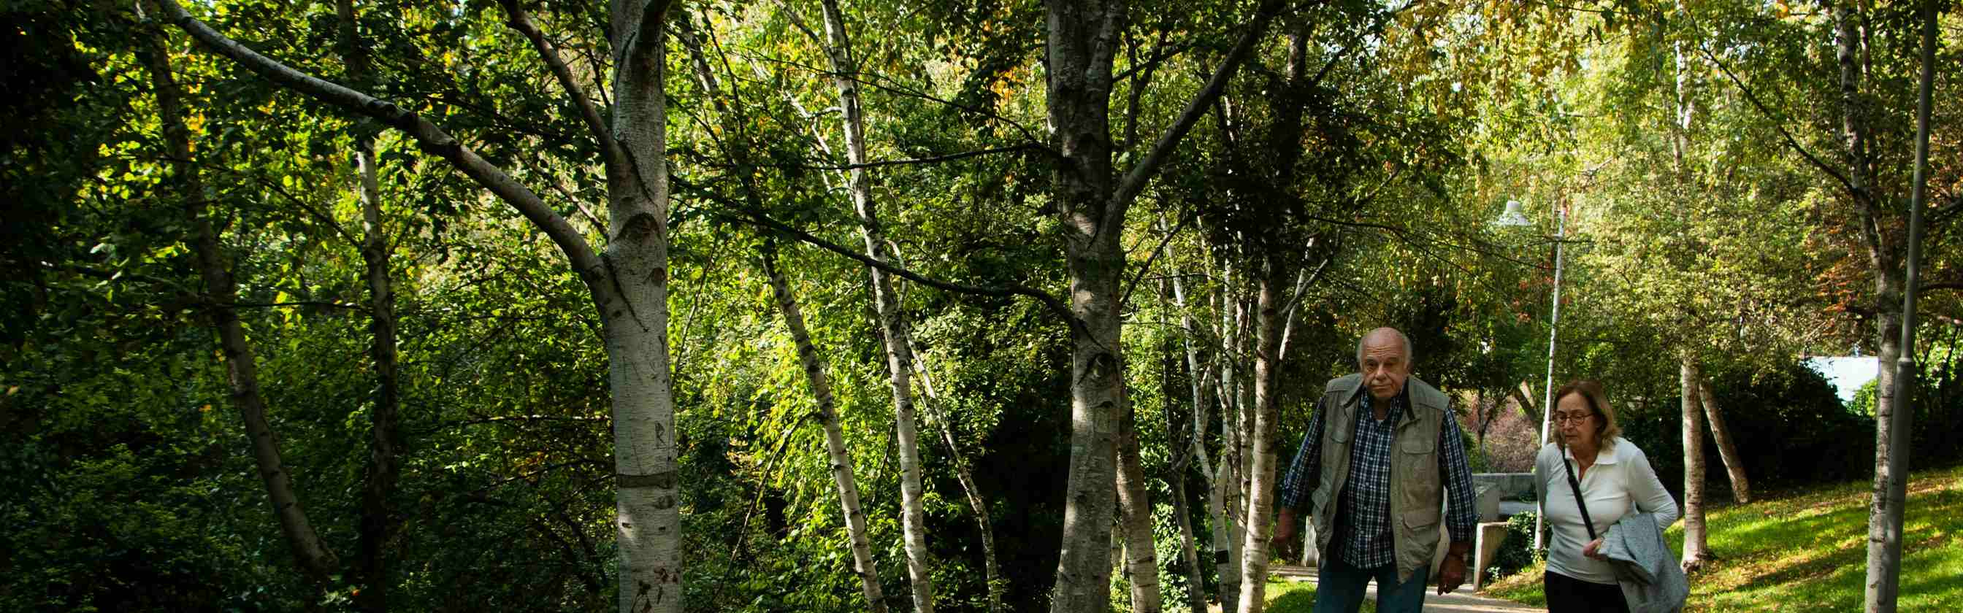
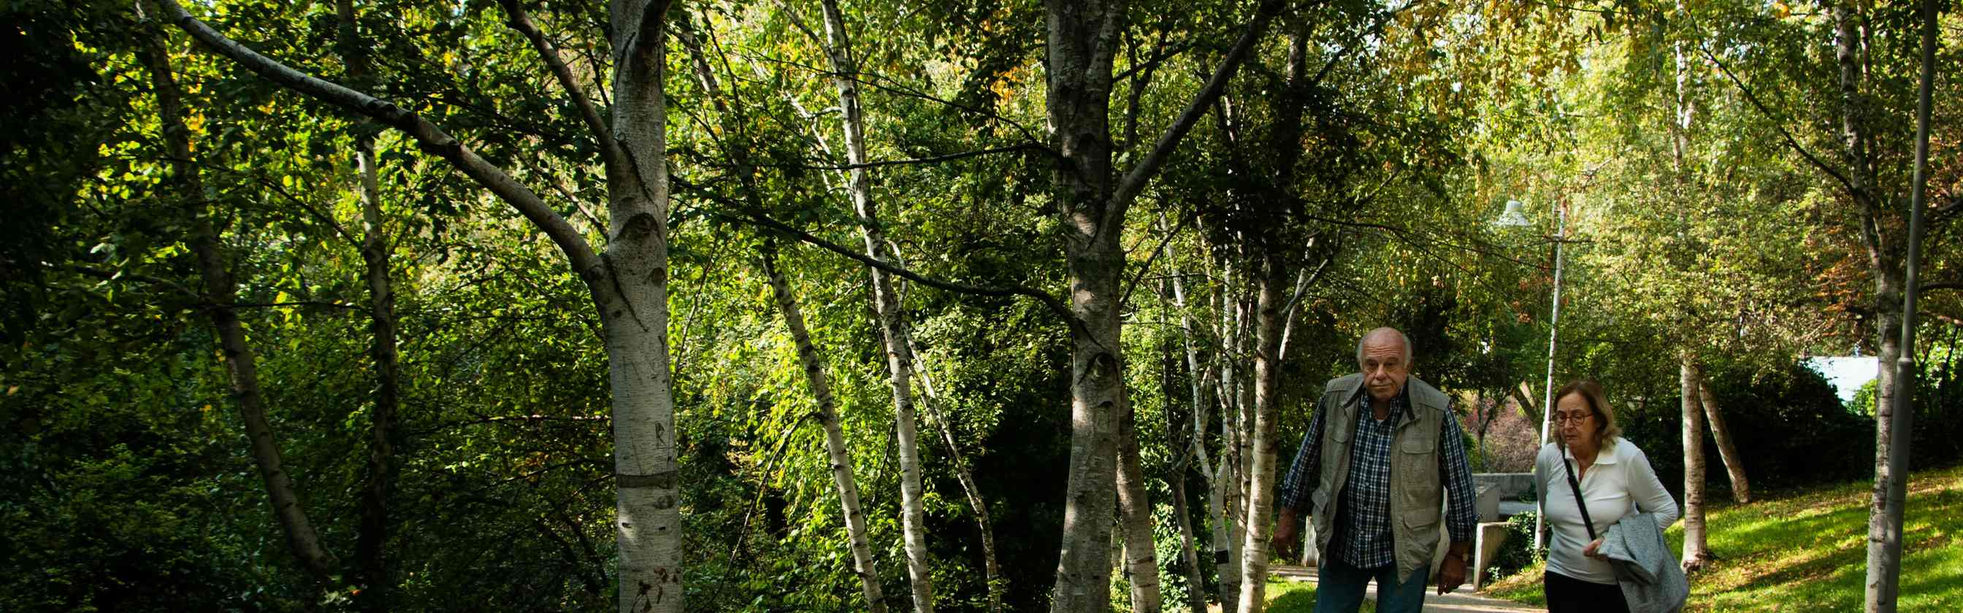
ci: 三条自足门禁入 CI（motion / lang-purity / assets）+ HIR 宽图重编
- deploy.yml 新增三步，顺序不改既有约束（copy-wiring 仍在 build 后）：
  verify-assets.py（最便宜的静态门禁，紧跟 verify-tokens）→ verify-motion.mjs
  （读 src/styles + docs/BLUEPRINT.md，无需构建）→ verify-lang-purity.mjs（自建
  两份 SSR 产物，最慢，排最后）。verify-assets.py 的非标准库依赖 Pillow 用一行
  守卫安装（`import PIL` 成功即不装；ubuntu 镜像 /etc/pip.conf 已开
  break-system-packages）。旧注释「slowest of the three, hence last」随新末位改回。
- hir-fig-2688 一对重编：仍 2688×840（= 1344 CSS ×@2x，文件名/接线宽度不变），
  jpg q23→q32、webp q23→q36；verify-assets.py 加全幅宽白名单（hir-fig-2688 +
  photoband-2880 单文件上限 320 KB，其余图位仍 250 KB）+ 白名单名必须在 DERIVED
  中的自检，MANIFEST 记新参数与新 note 字段。
- GATES.md 登记三条门禁（判据/条数/CI 与否），token 计数 156→160（实际 83+77）；
  README 的 CI 命令块、顺序说明、部署链、目录树、token 分组条数同步。

diff --git a/tools/verify-assets.py b/tools/verify-assets.py
@@ -34,6 +34,11 @@ DERIVED = {
     "photoband-2880": ("FvW5q", 2880, 1120),
 }
 DERIVED_MAX_BYTES = 250 * 1024
+# 全幅宽图（通栏、无左右留白，像素最密）单文件上限放宽到 320 KB，**只对下列白名单**生效；
+# 其余图位一律仍判 250 KB。hir-fig-2688 受限旧值只能压到 q23（画质偏软），故按此上限
+# 重编为 jpg q32 / webp q36；photoband-2880（另一张全幅宽图）同样上限，现文件远低于此值。
+FULL_BLEED_MAX_BYTES = 320 * 1024
+FULL_BLEED = {"hir-fig-2688", "photoband-2880"}
 BLANK_STDDEV_SUM = 5  # RGB 三通道标准差之和 <= 此值即为空白/占位图
 SOURCE_ORIGINALS = {"image1.jpeg", "image2.jpeg", "image3.jpeg"}
 NON_DERIVED = {"hir-essay.pdf"}  # 原样搬运的附件（非派生位图），不参与位图清单：无像素尺寸，且由 ScholarlyHir 直接 href 使用
@@ -125,7 +130,10 @@ def main():
         if e["w"] > s["w"] or e["h"] > s["h"]:
             errs.append(f"{key}: 放大违约 {e['w']}x{e['h']} > src {s['w']}x{s['h']}")
 
-    # ⑧ 图位派生图：存在、像素尺寸精确匹配、单文件 <=250KB、webp/jpg 成对、非空白
+    # ⑧ 图位派生图：存在、像素尺寸精确匹配、单文件 <=上限、webp/jpg 成对、非空白
+    if not FULL_BLEED <= set(DERIVED):
+        print(f"FAIL 全幅宽白名单含未知图位: {sorted(FULL_BLEED - set(DERIVED))}")
+        return 1
     derived_before = len(errs)
     for base, (node, dw, dh) in sorted(DERIVED.items()):
         for ext in ("webp", "jpg"):
@@ -138,8 +146,12 @@ def main():
                 errs.append(f"{name}: 未登记进清单（nodeId {node}）")
             elif entries[name].get("nodeId") != node:
                 errs.append(f"{name}: 清单 nodeId={entries[name].get('nodeId')!r} != {node!r}")
-            if path.stat().st_size > DERIVED_MAX_BYTES:
-                errs.append(f"{name}: {path.stat().st_size} 字节 > 250 KB 上限")
+            cap = FULL_BLEED_MAX_BYTES if base in FULL_BLEED else DERIVED_MAX_BYTES
+            if path.stat().st_size > cap:
+                errs.append(
+                    f"{name}: {path.stat().st_size} 字节 > {cap // 1024} KB 上限"
+                    f"（{'全幅宽白名单' if base in FULL_BLEED else '默认'}）"
+                )
             try:
                 with Image.open(path) as im:
                     got, spread = im.size, sum(ImageStat.Stat(im.convert("RGB")).stddev)
@@ -189,7 +201,8 @@ def main():
     if derived_failed:
         print(f"新增 {len(DERIVED)} 组图位：{derived_failed} 项不合格")
     else:
-        print(f"新增 {len(DERIVED)} 组图位通过：存在 / 尺寸精确匹配 / 单文件 <=250KB / webp+jpg 成对 / 非空白")
+        print(f"新增 {len(DERIVED)} 组图位通过：存在 / 尺寸精确匹配 / 单文件 <=250KB"
+              f"（全幅宽 {sorted(FULL_BLEED)} <=320KB）/ webp+jpg 成对 / 非空白")
     if errs:
         print(f"FAIL 共 {len(errs)} 条")
         return 1

diff --git a/docs/GATES.md b/docs/GATES.md
@@ -13,11 +13,14 @@ P14 轮只改两条 fidelity 的**输入解析**（`nav-hero-photoband` / `elder
 
 T3b 轮落地**默认英文 + 单语纯度**（裁决：`.agents/briefs/lang-purity-ruling.md`；BLUEPRINT §6.4 已就地改写并标注旧模型作废）：`DEFAULT_LANG="en"`、`index.html` 的 `<html lang="en">` 与英文 head；字典两侧各持本语言文本（134 → 140 键，新增 6 个图位 alt 键）；`fallback`/`pending` 字段废弃。新增 `tools/verify-lang-purity.mjs`，并把两条既有判据**同强度换向**：`verify-ssr-dom` 的「`lang` 双值」→「单语言（无 CJK、`lang` 只有 `en`）+ h2 文本逐字取 `copy-en.json`」，`verify-lang-toggle` 的默认模式 zh-Hans → en（13 对键的「自身一侧在场 + 另一语言文本不在场」）。`docs/verify-copy.mjs` 的溯源断言按「材料侧逐字 / 译文侧同槽位且互异」重写，断言条数 214 不变（126 原文逐字 + 74 译文侧 + 14 材料混排改写）。本轮实测：四条 fidelity 因 `ui.pen` 与冻版哈希不符（`41dd7140…`/140380 B vs `8816b923…`/137536 B）直接拒绝比对，rc=1，与本轮改动无关（本轮未动 `ui.pen`、`src/styles/**`、`src/sections/**`）。
 
+P15 轮把三条自足门禁接进 CI（`tools/verify-motion.mjs`、`tools/verify-lang-purity.mjs`、`tools/verify-assets.py`），
+只动 `.github/workflows/deploy.yml`、本文件与 `README.md` 的登记；另一处改动是 `hir-fig-2688` 一对派生图按全幅宽白名单上限（≤320 KB）以更高画质重编，`tools/verify-assets.py` 因此多一条白名单判据。判据强度未放宽：白名单只增两条分支，其余图位仍判 250 KB。
+
 ## 1 总表
 
 | 门禁 | 能证什么 | 不能证什么 | 跑在哪 |
 |---|---|---|---|
-| `tools/verify-tokens.mjs` | `src/styles/tokens.css` 156 个 token 与设计简报 §9 + 实现补充表**逐字节同值** | 谁消费了哪个 token、某节档位取值、视觉结果 | CI |
+| `tools/verify-tokens.mjs` | `src/styles/tokens.css` 160 个 token 与设计简报 §9 + 实现补充表**逐字节同值** | 谁消费了哪个 token、某节档位取值、视觉结果 | CI |
 | `tools/verify-deploy.mjs` | Pages 发布链静态约定 57 项（vite 相对 base、npm scripts、README 提及、workflow 步骤依赖顺序） | 运行结果、UI | CI |
 | `npm run build`（`tsc --noEmit` + vite） | 类型可编译、可打包 | 视觉、设计值、布局 | CI |
 | `tools/verify-copy-wiring.mjs` | 产物中的文案全部来自冻版字典（含未引用键下限） | 排版、位置、设计值 | CI（须在 build 后） |
@@ -25,16 +28,19 @@ T3b 轮落地**默认英文 + 单语纯度**（裁决：`.agents/briefs/lang-pur
 | `tools/verify-responsive.mjs` | BLUEPRINT §3.1/§3.2 每个档位值由**该 token 自身的载体选择器**在对应 `@media (max-width: Npx)` 块内以 `var(--name)`/`var(--name-tNNNN)` 承接，属性属族且解析值含表值；§3.3 的 `` `--token` `` 锚同此 | §3.3 非 token 数字（色块/方图/`h`/gap/padding）不绑选择器（§2 B-残留）；token 表值本身由 verify-tokens 管，本门禁不比对设计稿 | CI |
 | `tools/verify-ssr-dom.mjs` | 学术成果节 SSR 后的 DOM 事实：标题层级、9 个揭晓区初始折叠且 panel id 可寻、图片 lazy、单语言（无 CJK、`lang` 只出现 `["en"]`） | 只覆盖 scholarly 节；视觉 | CI |
 | `docs/verify-copy.mjs` | 字典自身规则：键集合一致（当前 140 键）、字段类型、材料侧 `text` 逐字溯源、译文侧「同一 `src` 槽位 + 原文侧逐字 + 两侧互异」、chrome/src 归属、※ 禁止 | 渲染、版式；译文**语义**正确性（机器无判据，由 `translation-policy.md` §验收 2 人工抽检） | 本地 |
-| `tools/verify-lang-purity.mjs` | 两模式 SSR 产物纯度：EN 零 CJK（可见文本 + `title`/`alt`/`aria-label`/`placeholder`/`content` + 静态 head）、ZH 拉丁 token 逐 token 命中封闭白名单且整 token 元素带 `lang="en"` | `<noscript>`（JS-off 兜底，双语）与运行期由 JS 拼接的串（本页无）不在扫描范围；白名单本身不判语义 | 本地（**未接入 CI**） |
+| `tools/verify-lang-purity.mjs` | 两模式 SSR 产物纯度 3 类：EN 零 CJK（可见文本 + `title`/`alt`/`aria-label`/`placeholder`/`content` + 静态 head）、ZH 拉丁 token 逐 token 命中封闭白名单且整 token 元素带 `lang="en"`、两模式皆走同一渲染路径（`DEFAULT_LANG` 改写不生效即rc≠0） | `<noscript>`（JS-off 兜底，双语）与运行期由 JS 拼接的串（本页无）不在扫描范围；白名单本身不判语义 | CI |
 | `tools/verify-lang-toggle.mjs` | 语言切换逐条键（默认 `en`）、不重载、同值点击持久化 | 视觉 | 本地 |
 | `tools/verify-render.mjs` | 真实浏览器渲染度量（驱动器无本机浏览器，走宿主 Chrome CDP `127.0.0.1:9222`） | CI 无此环境 | 本地 |
-| `tools/verify-assets.py` | 资源体积与完整性 | 版式、设计值 | 本地 |
+| `tools/verify-assets.py` | `MANIFEST.json` 38 条目的字段/存在/字节/尺寸/格式/禁放大、清单集合==磁盘集合、总字节须少于源图、10 组图位派生图（存在 / 像素尺寸精确匹配 / webp+jpg 成对 / 非空白 / 单文件 ≤250 KB，全幅宽白名单 `hir-fig-2688`+`photoband-2880` ≤320 KB） | 版式、设计值、画面内容是否就是设计稿那张图（只判非空白） | CI（`python3` + Pillow，见 §5） |
+| `tools/verify-motion.mjs` | 动效层 7 类：12 个冻结 motion token 逐字同值且被样式消费、无作废旧名（`--dur-fast` 等）、每个动效钩子（7 个 animated 加全部 `motion-*`/`reveal*` 选择器）都有 `prefers-reduced-motion: reduce` 终态、揭晓契约（`0fr→1fr`、`overflow-anchor: none`、`aria-expanded`/`aria-controls`/`aria-labelledby`/`data-state`、无内联 style）、11 节均有入场钩子、禁用项（过冲缓动、动画 `top/left/height/margin`、`transition: all`、scroll 监听）、时长预算（单条 ≤800ms、首屏链 ≤800ms）、BLUEPRINT §2.11 同名同值 | 实际观感、真机帧率、`reduced-motion` 下的渲染结果（不跑浏览器）；`motion-spec-frozen.md` 自身的措辞（仓外文件，只比三处同源物） | CI（自带 `--self-test` 自毁副本反例） |
 | `tools/fidelity-scholarly.mjs`、`tools/fidelity-nav-hero-photoband.mjs`、`tools/fidelity-elder-music-sport.mjs`、`tools/fidelity-index-method-values-footer.mjs` | 各节 ui.pen 子树的设计数值/色彩/字族在对应节样式里有承接声明；索引四行三色、Values 四卡三属性另有逐节点配对 | 除已配对项外按**节级池**匹配：节点级错值可被同节别的节点顶掉（§2 A2/A3/A4）；另三条本轮**未审**（§2 C） | 本地 |
 | `tools/verify-fonts.mjs` | 抽样 6 个节点的**实际选中**字体族（CDP `CSS.getPlatformFontsForNode`）：4 个声明 Inter / IBM Plex Mono 的节点确由该族绘制且 `isCustomFont=true`（自托管 woff2 已加载），2 个中文节点落在含 CJK 的系统字体上且 `isCustomFont=false` | 未抽样节点、字形覆盖度（latin 子集外的缺字回退）、字重细节、真机与其它浏览器 | 本地（需宿主 CDP `127.0.0.1:9222`，可 `CDP=` 覆盖）；端点不可达以 rc=2 单行 `UNAVAILABLE:` 退出，不进 CI |
 
-上表 7 条 CI 门禁 = `.github/workflows/deploy.yml` 的全部步骤（verify-tokens → verify-deploy →
-build → verify-copy-wiring → verify-head → verify-responsive → verify-ssr-dom）。
-四条 fidelity、`docs/verify-copy.mjs`、lang-toggle、lang-purity、render、fonts、assets **未接入 CI**，其假绿 CI 不会拦下（lang-purity 未加进 `.github/workflows/deploy.yml`：本轮可改路径不含 `.github/**`）。
+上表 10 条 CI 门禁 = `.github/workflows/deploy.yml` 的全部步骤（verify-tokens → verify-assets → verify-deploy → verify-motion →
+build → verify-copy-wiring → verify-head → verify-responsive → verify-ssr-dom → verify-lang-purity）。
+四条 fidelity、`docs/verify-copy.mjs`、lang-toggle、render、fonts **未接入 CI**，其假绿 CI 不会拦下。
+`tools/verify-deploy.mjs` 会检查「workflow/README 引用的每个 `node tools/*.mjs` 都在树上」与「门禁步骤全在发布步骤之前」，
+但**不逐条点名**必须包含哪些新步骤：删掉 `verify-motion` 步骤它仍 rc=0（§4 D1，已记为未决项）。
 
 ## 2 逐条盲区
 
@@ -68,6 +74,9 @@ build → verify-copy-wiring → verify-head → verify-responsive → verify-ss
 按左列改一处，跑 `node tools/<门禁>`，看 rc。修前判据用 `git show HEAD:tools/…` 取（P9 那条另把
 `PEN_SHA256_PREFIX` 对齐当前冻版哈希，否则会因旧冻版哈希先红）。上表每条反例均如此实跑，记录如下：
 
+P15 轮新增的三条自足门禁不与 `ui.pen` 相干，其反例在**干净克隆**（`git clone` 到 /tmp，`npm ci`）里跑，
+其余口径同上（改一处 / 跑一条 / 看 rc / 复原）：
+
 | 反例 | 改法 | 门禁 | rc |
 |---|---|---|---|
 | A1 | 互换 `:nth-child(1)`/`:nth-child(2)` 的 `--card-fill` 值 | fidelity-index-method-values-footer | 修前 0 → 修后 1 |
@@ -81,6 +90,10 @@ build → verify-copy-wiring → verify-head → verify-responsive → verify-ss
 | A3 | 互换 `.method__title`(64) 与 `.method__col-title`(22) 的 `font-size` | 同上 | 0（假绿） |
 | A4 | Method `[data-role="K"]` 的 `color` 由 `--c-blue` 改 `--c-ink` | 同上 | 0（假绿） |
 | B-残留 | Values `@media (max-width: 1200px)` 内 `height: var(--card-h-t1200)` 挪给 `.values__cell` | verify-responsive ＋ fidelity-index-method-values-footer | 0 ＋ 0（双漏） |
+| P15-M1 | `node tools/verify-motion.mjs --self-test`（自毁 /tmp 副本：加一处未声明的 `.motion-*` 钩子 + 一条动画 `height` 的 transition） | verify-motion | 1（`[HOOK]` + `[PROPERTY]` 各一条；副本未被拦住则 rc=2 自报失明） |
+| P15-L1 | 干净克隆里 `docs/copy-en.json` 的 `nav.brand.name.text` 追加「中文」二字 | verify-lang-purity | 1（`en: CJK=2`）；复原 0 |
+| P15-A1 | 把 `public/media/hir-fig-2688.jpg` 重编成 474742 B（q85）；另把 `FULL_BLEED` 白名单加一个不存在的图位名 | verify-assets.py | 1（字节数不符 ＋ `474742 字节 > 320 KB 上限（全幅宽白名单）`）；另 1（`白名单含未知图位: ['nope-1x1']`）；两次复原均 0 |
+| P15-D1 | 从 `.github/workflows/deploy.yml` 删掉 `Verify motion layer` 步骤 | verify-deploy | **0**（未覆盖，见 §5） |
 
 计数口径：`fidelity-index-method-values-footer` 的 `checked` 由 324 增至 332（+8 = 新绑定的 2 属性 × 4 卡；
 P9 前为 320）。`verify-responsive` 的 `values_checked` 修前修后同为 84（`--token` 锚的数字从共用数字集合
@@ -89,6 +102,9 @@ P9 前为 320）。`verify-responsive` 的 `values_checked` 修前修后同为 8
 ## 5 口径与局限
 
 - 本文件登记**判据强度**，不登记门禁条数或覆盖率；「已修」只指本轮/上列提交的判据改动，「未修」「未审」「未实测」即字面意思。
+- 门禁条数以门禁自身输出为准：`verify-tokens.mjs` 本轮打印 160/160（83 `design brief §9` + 77 `implementation supplement`），原记的 156（83+73）与实测不符，已在 §1 与 `README.md` 改为实测值。
+- `tools/verify-assets.py` 的仓库外依赖为零，但有**运行期依赖**：`python3` + Pillow（`PIL`）。workflow 该步骤先试 `python3 -c "import PIL"`，失败才 `python3 -m pip install --quiet pillow`；本机与 GitHub `ubuntu-latest` 镜像的差异未实测（无 runner 环境），CI 首跑才算验过。
+- `tools/verify-deploy.mjs` 的覆盖边界：它只断言「workflow/README 引用的 `node tools/*.mjs` 都在树上」与「门禁步骤全在发布步骤之前」，**不逐条点名**应包含哪些步骤 —— 删掉 `Verify motion layer` 仍 rc=0（§4 P15-D1）。收紧需改 `tools/verify-deploy.mjs` 本身，不在本轮可改路径内，记为未决项。
 - 单语纯度：EN 模式就是 SSR 默认产物；ZH 模式由构建期改写 `DEFAULT_LANG` 一个字面量后走同一条渲染路径（改写不生效即 rc≠0，不会静默扫两遍英文）。**纯度 ≠ 语义**：译文与原文的语义一致只能由人工抽检（`translation-policy.md` §验收 2，≥10 条含 HIR 长答与 mono 短标）。
 - 元素级 `lang`：中文页上的白名单拉丁 token 已带 `lang="en"`（`tools/verify-lang-purity.mjs` 第 3 项逐元素断言）；英文页上分节仍输出冗余 `lang="en"`（BLUEPRINT §6.4 #5 待分节 lane 成对锁定收口），本门禁不断言该冗余，只断言「无 CJK 且无其它语言」。
 - 四条 fidelity 门禁都依赖 `ui.pen` 冻结哈希（`PEN_SHA256_PREFIX`）与字节大小，改冻版必须同步改门禁常量，否则先红在哈希检查。

diff --git a/README.md b/README.md
@@ -27,19 +27,22 @@ npm run typecheck               # src + vite.config.ts
 
 ```bash
 node tools/verify-tokens.mjs       # 设计 token 逐条比对设计稿数值
+python3 tools/verify-assets.py     # public/media 与 MANIFEST.json 逐条比对（表用 Pillow）
 node tools/verify-deploy.mjs       # 部署配置门禁（GitHub Pages 单路径）
+node tools/verify-motion.mjs       # 动效层（冻结 token / 钩子 / 揭晓契约 / 禁用项 / 时长预算）
 npm run build                      # 类型检查 + 产出 dist/
 node tools/verify-copy-wiring.mjs  # 文案键确实进了 dist/assets/*.js（读打包产物）
 node tools/verify-head.mjs         # index.html 文档头与字典 hero.* 逐字一致
 node tools/verify-responsive.mjs   # 蓝图 §3 的响应式数值逐条比对
 node tools/verify-ssr-dom.mjs      # SSR 结构与无障碍属性（自跑 vite SSR 构建）
+node tools/verify-lang-purity.mjs  # 单语纯度（EN/ ZH 两模式各自建一份 SSR 产物）
 ```
 
-便宜的静态门禁先跑（fail fast）。后四条都排在 `npm run build` 之后：`verify-copy-wiring.mjs` 读 `dist/assets`；`verify-head.mjs` / `verify-responsive.mjs` 只读 checkout 里的文件；`verify-ssr-dom.mjs` 用 Vite JS API 自建一份 SSR 产物到 `/tmp`（不读 `dist/`），是这批里最慢的一个，故排最后。
+便宜的静态门禁先跑（fail fast）：`verify-tokens` / `verify-assets` / `verify-deploy` / `verify-motion` 都只读 checkout。`npm run build` 之后的五条：`verify-copy-wiring.mjs` 读 `dist/assets`；`verify-head.mjs` / `verify-responsive.mjs` 只读 checkout 里的文件；`verify-ssr-dom.mjs` 与 `verify-lang-purity.mjs` 都用 Vite JS API 自建 SSR 产物到 `/tmp`（不读 `dist/`），后者建两份（en / zh-Hans）故排最后。
 
 ### 只在本地跑（CI 不跑，因为不自足）
 
-上列七条全自足：只读 checkout、无浏览器、无仓库外输入。下面这些的输入或运行环境不在 CI 里，故留在本地：
+上列十条全自足：只读 checkout、无浏览器、无仓库外输入（`verify-assets.py` 需 `python3` 与 Pillow，故 workflow 里带一行守卫安装，见下）。下面这些的输入或运行环境不在 CI 里，故留在本地：
 
 | 命令 / 门禁 | 不进 CI 的原因 |
 |---|---|
@@ -49,10 +52,12 @@ node tools/verify-ssr-dom.mjs      # SSR 结构与无障碍属性（自跑 vite 
 | `node tools/verify-fonts.mjs` | 同上：靠 CDP `CSS.getPlatformFontsForNode` 读**实际选中**的字体族，端点不可用时以 rc=2 单行 `UNAVAILABLE:` 退出 |
 | `node tools/verify-lang-toggle.mjs` | 同上：其浏览器节同样依赖宿主 CDP 端点 |
 
-本地跑全量（CI 七条 + 上表）：
+`verify-assets.py` 的非标准库依赖只有 Pillow：workflow 的该步骤先 `python3 -c "import PIL"`，缺了才 `python3 -m pip install --quiet pillow`（GitHub 的 ubuntu 镜像 `/etc/pip.conf` 已设 `break-system-packages`），镜像自带则一行也不装。
+
+本地跑全量（CI 十条 + 上表）：
 
 ```bash
-node tools/verify-tokens.mjs && node tools/verify-deploy.mjs && npm run build && node tools/verify-copy-wiring.mjs && node tools/verify-head.mjs && node tools/verify-responsive.mjs && node tools/verify-ssr-dom.mjs && npx tsc --noEmit && node docs/verify-copy.mjs && for f in tools/fidelity-*.mjs; do node "$f"; done && node tools/verify-fonts.mjs && node tools/verify-render.mjs && node tools/verify-lang-toggle.mjs
+node tools/verify-tokens.mjs && python3 tools/verify-assets.py && node tools/verify-deploy.mjs && node tools/verify-motion.mjs && npm run build && node tools/verify-copy-wiring.mjs && node tools/verify-head.mjs && node tools/verify-responsive.mjs && node tools/verify-ssr-dom.mjs && node tools/verify-lang-purity.mjs && npx tsc --noEmit && node docs/verify-copy.mjs && for f in tools/fidelity-*.mjs; do node "$f"; done && node tools/verify-fonts.mjs && node tools/verify-render.mjs && node tools/verify-lang-toggle.mjs
 ```
 
 所有命令都以 rc=0 为准；rc=1 打印具体是哪一条断言不成立，rc=2 表示运行环境或仓外输入不可用（单行 `UNAVAILABLE:`，见下表）。
@@ -64,8 +69,8 @@ node tools/verify-tokens.mjs && node tools/verify-deploy.mjs && npm run build &&
 1. 把仓库推到 GitHub，默认分支 `main`。
 2. 仓库网页端 **Settings → Pages → Build and deployment → Source** 选 **GitHub Actions**（不要选 "Deploy from a branch"）。
 3. 向 `main` 推送即触发 `.github/workflows/deploy.yml`：
-   `actions/checkout` → `actions/setup-node`（Node 22 + npm 缓存）→ `npm ci` → `node tools/verify-tokens.mjs` → `node tools/verify-deploy.mjs` → `npm run build` → `node tools/verify-copy-wiring.mjs` → `node tools/verify-head.mjs` → `node tools/verify-responsive.mjs` → `node tools/verify-ssr-dom.mjs` → `actions/configure-pages` → `actions/upload-pages-artifact`（`path: ./dist`）→ `actions/deploy-pages`。
-   静态门禁先跑（fail fast），靠后的四个门禁都排在 build 之后（`verify-copy-wiring` 要读 `dist/`）；任一脚本 rc≠0，job 即失败，不会发布半成品。进 CI 的只有自足脚本；依赖仓库外素材或宿主浏览器的门禁留在本地跑（见「验证套件」的 CI 边界表）。
+   `actions/checkout` → `actions/setup-node`（Node 22 + npm 缓存）→ `npm ci` → `node tools/verify-tokens.mjs` → `python3 tools/verify-assets.py` → `node tools/verify-deploy.mjs` → `node tools/verify-motion.mjs` → `npm run build` → `node tools/verify-copy-wiring.mjs` → `node tools/verify-head.mjs` → `node tools/verify-responsive.mjs` → `node tools/verify-ssr-dom.mjs` → `node tools/verify-lang-purity.mjs` → `actions/configure-pages` → `actions/upload-pages-artifact`（`path: ./dist`）→ `actions/deploy-pages`。
+   静态门禁先跑（fail fast），靠后的五条都排在 build 之后（`verify-copy-wiring` 要读 `dist/`）；任一脚本 rc≠0，job 即失败，不会发布半成品。进 CI 的只有自足脚本；依赖仓库外素材或宿主浏览器的门禁留在本地跑（见「验证套件」的 CI 边界表）。
    手动重跑：**Actions → Deploy to GitHub Pages → Run workflow**。
 4. 在 **Actions** 面板看这次 run 的 `build` / `deploy` 两个 job 变绿；`deploy` 的 environment 链接即站点地址。
 5. 访问 `https://<user>.github.io/<repo>/`。（用户主页仓库 `<user>.github.io` 则是 `https://<user>.github.io/`。）
@@ -83,7 +88,9 @@ node tools/verify-tokens.mjs && node tools/verify-deploy.mjs && npm run build &&
 `tools/verify-tokens.mjs` 把 tokens.css 与简报数值逐条比对：**缺 token、数值不符、出现未登记的多余 token** 都会以 rc≠0 退出并打印 token 名、期望值、实际值。文件内 token 分两组并标注来源：
 
 - `design brief §9`：设计稿实测值（83 项）
-- `implementation supplement`：设计稿中未单列的值（73 项）——单尺寸补齐、响应式分档（BLUEPRINT §3.1–§3.3）与动效层
+- `implementation supplement`：设计稿中未单列的值（77 项）——单尺寸补齐、响应式分档（BLUEPRINT §3.1–§3.3）与动效层
+
+`tools/verify-motion.mjs` 把动效层钉在 **7 类断言**上：12 个冻结 motion token 与 `src/styles/tokens.css` 逐字同值且被样式消费、无作废旧名（`--dur-fast` / `--ease-inout`）、每个动效钩子都有 `prefers-reduced-motion: reduce` 终态、揭晓契约（`grid-template-rows: 0fr → 1fr`、`overflow-anchor: none`、`aria-expanded`/`aria-controls`/`aria-labelledby`/`data-state`、无内联 style）、11 节均有入场钩子、禁用项（过冲缓动、动画 `top`/`left`/`height`/`margin`、`transition: all`、scroll 监听）、时长预算（单条 ≤800ms、首屏链 ≤800ms）。`node tools/verify-motion.mjs --self-test` 自毁一份 /tmp 副本再跑同一套判据，拦住即 rc=1。
 
 ## 字体
 
@@ -107,7 +114,7 @@ src/
   components/primitives/ Section / Rule / TextRole / Reveal + primitives.css
   sections/              Nav / Hero / PhotoBand / Index / Elder / Music / Sport / Method / Values / Footer（各一节）
   sections/Scholarly/    Scholarly.tsx / ScholarlyIgem / ScholarlyJhu / ScholarlyImmuno / ScholarlyHir.tsx / useReveal.ts / scholarly.css
-tools/                   verify-tokens / verify-deploy / verify-copy-wiring / verify-head / verify-responsive / verify-ssr-dom（进 CI），其余留在本地
+tools/                   verify-tokens / verify-assets.py / verify-deploy / verify-motion / verify-copy-wiring / verify-head / verify-responsive / verify-ssr-dom / verify-lang-purity（进 CI），其余留在本地
 docs/                    verify-copy.mjs / copy-en.json / copy-zh.json
 .github/workflows/       deploy.yml（唯一的部署路径）
 ```
